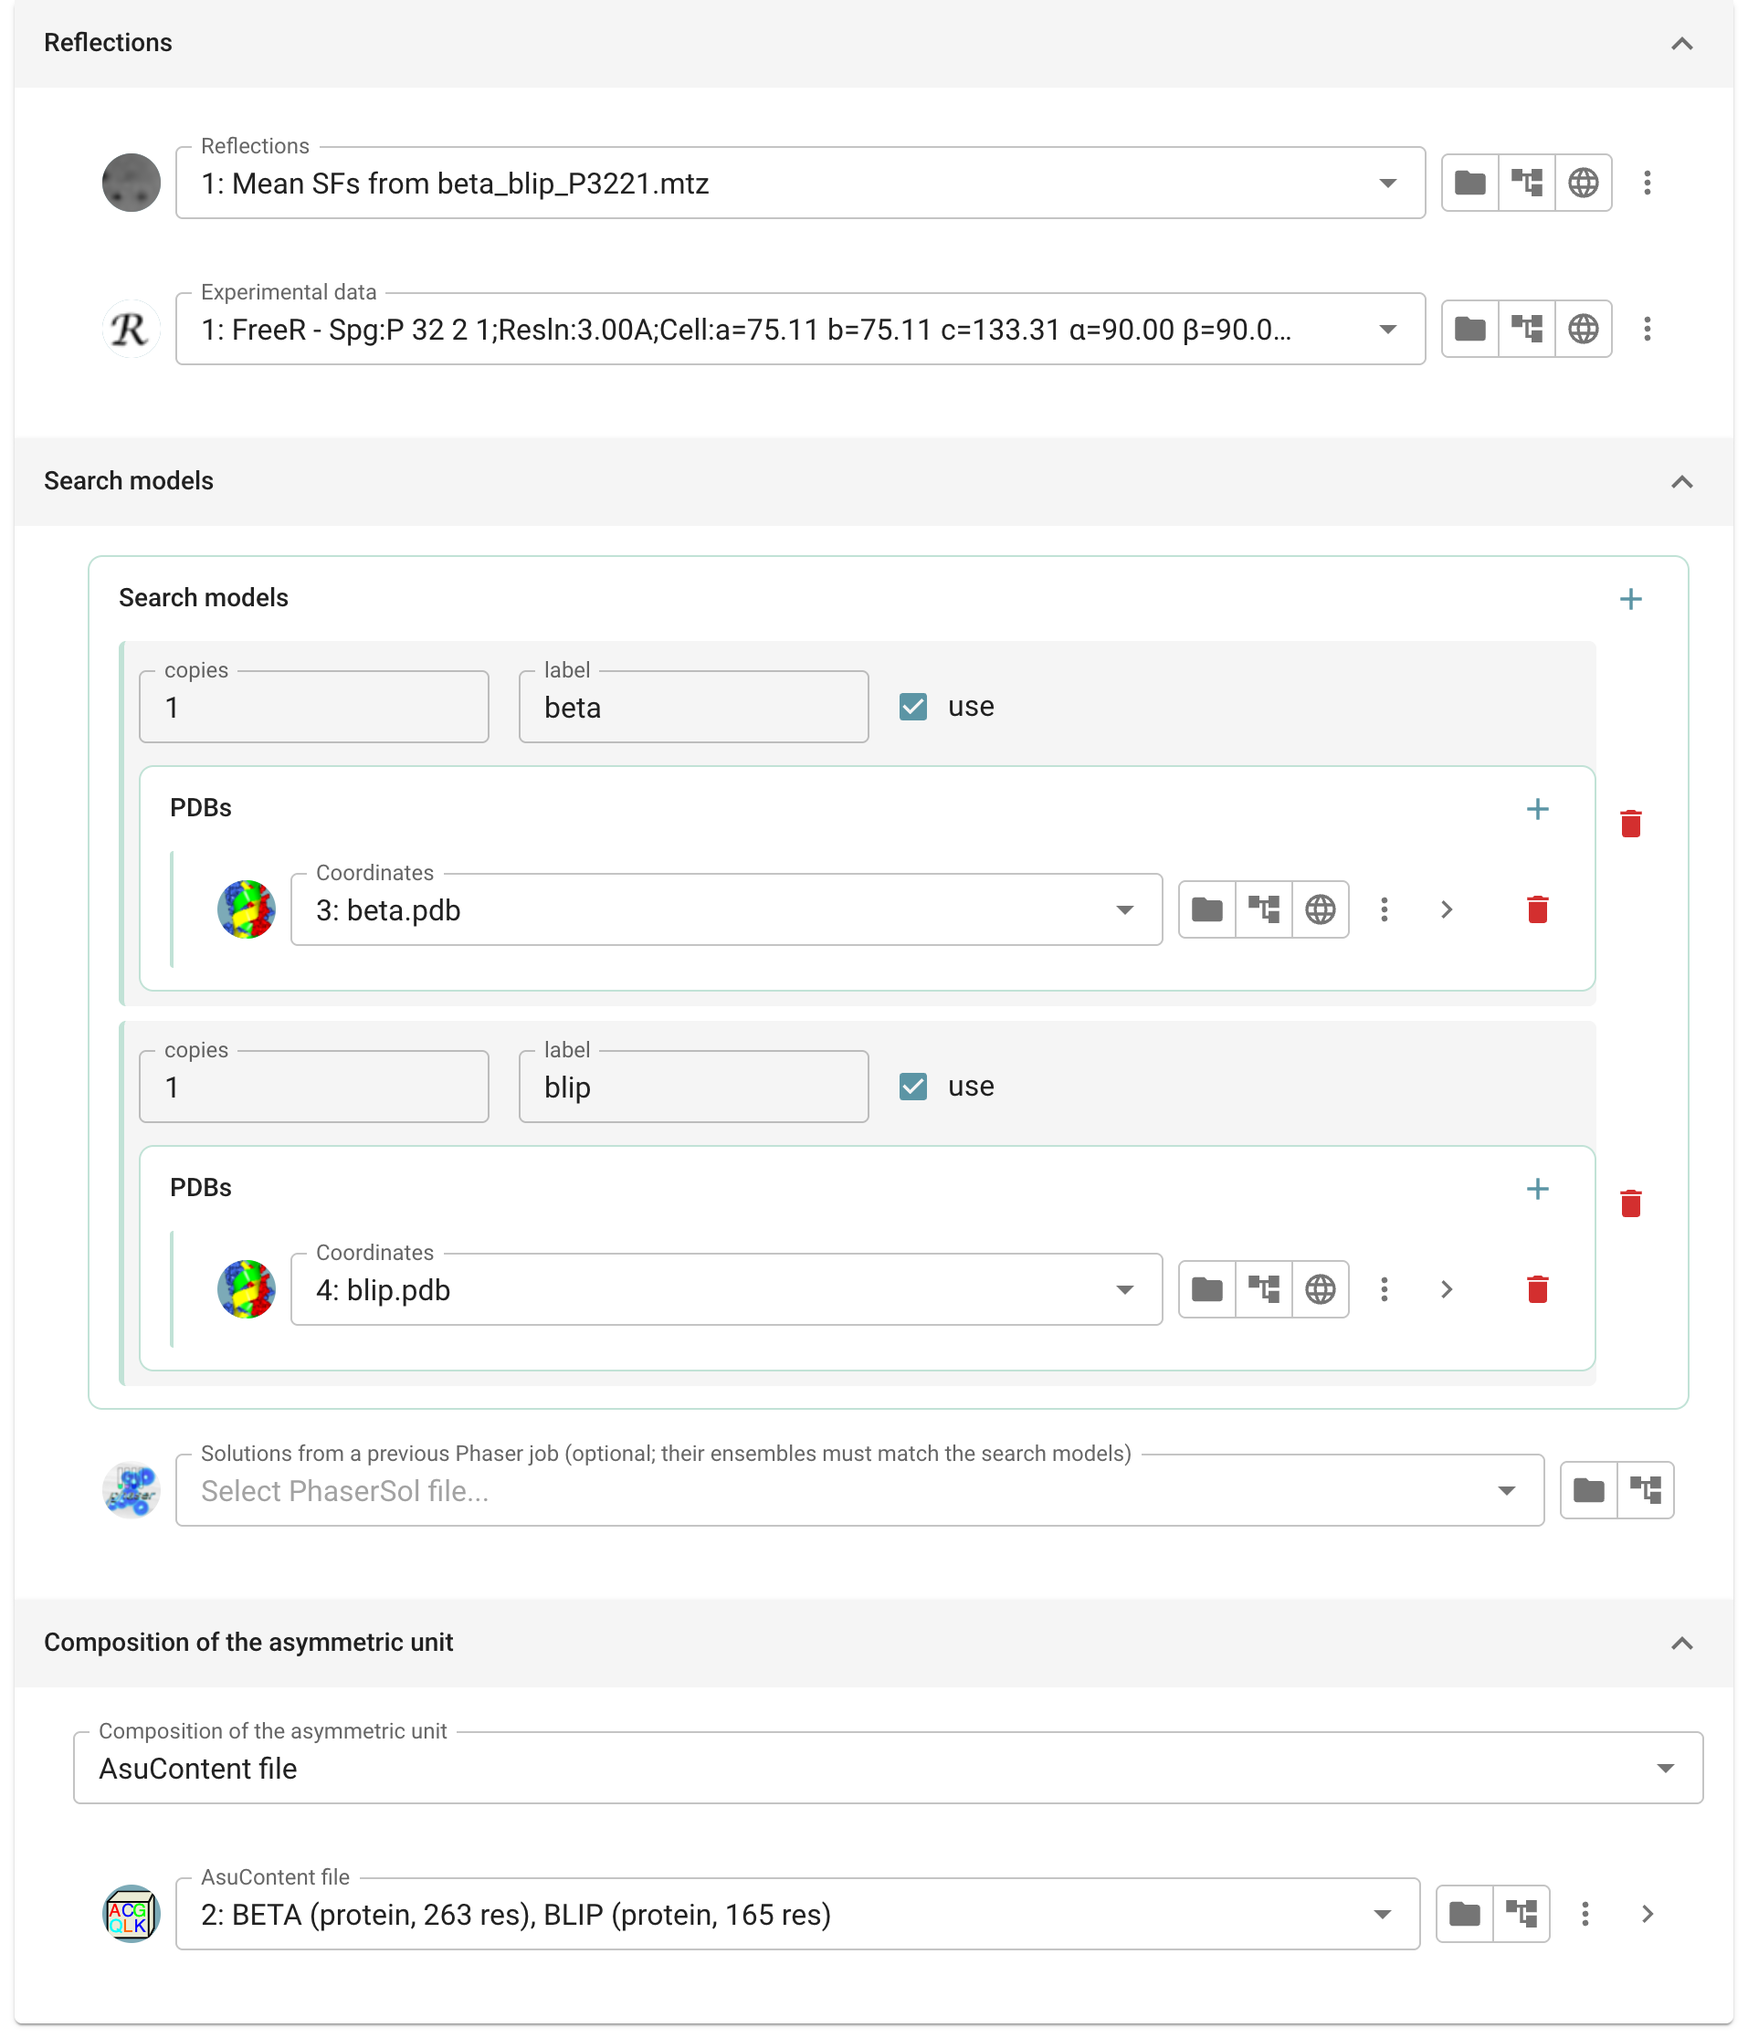
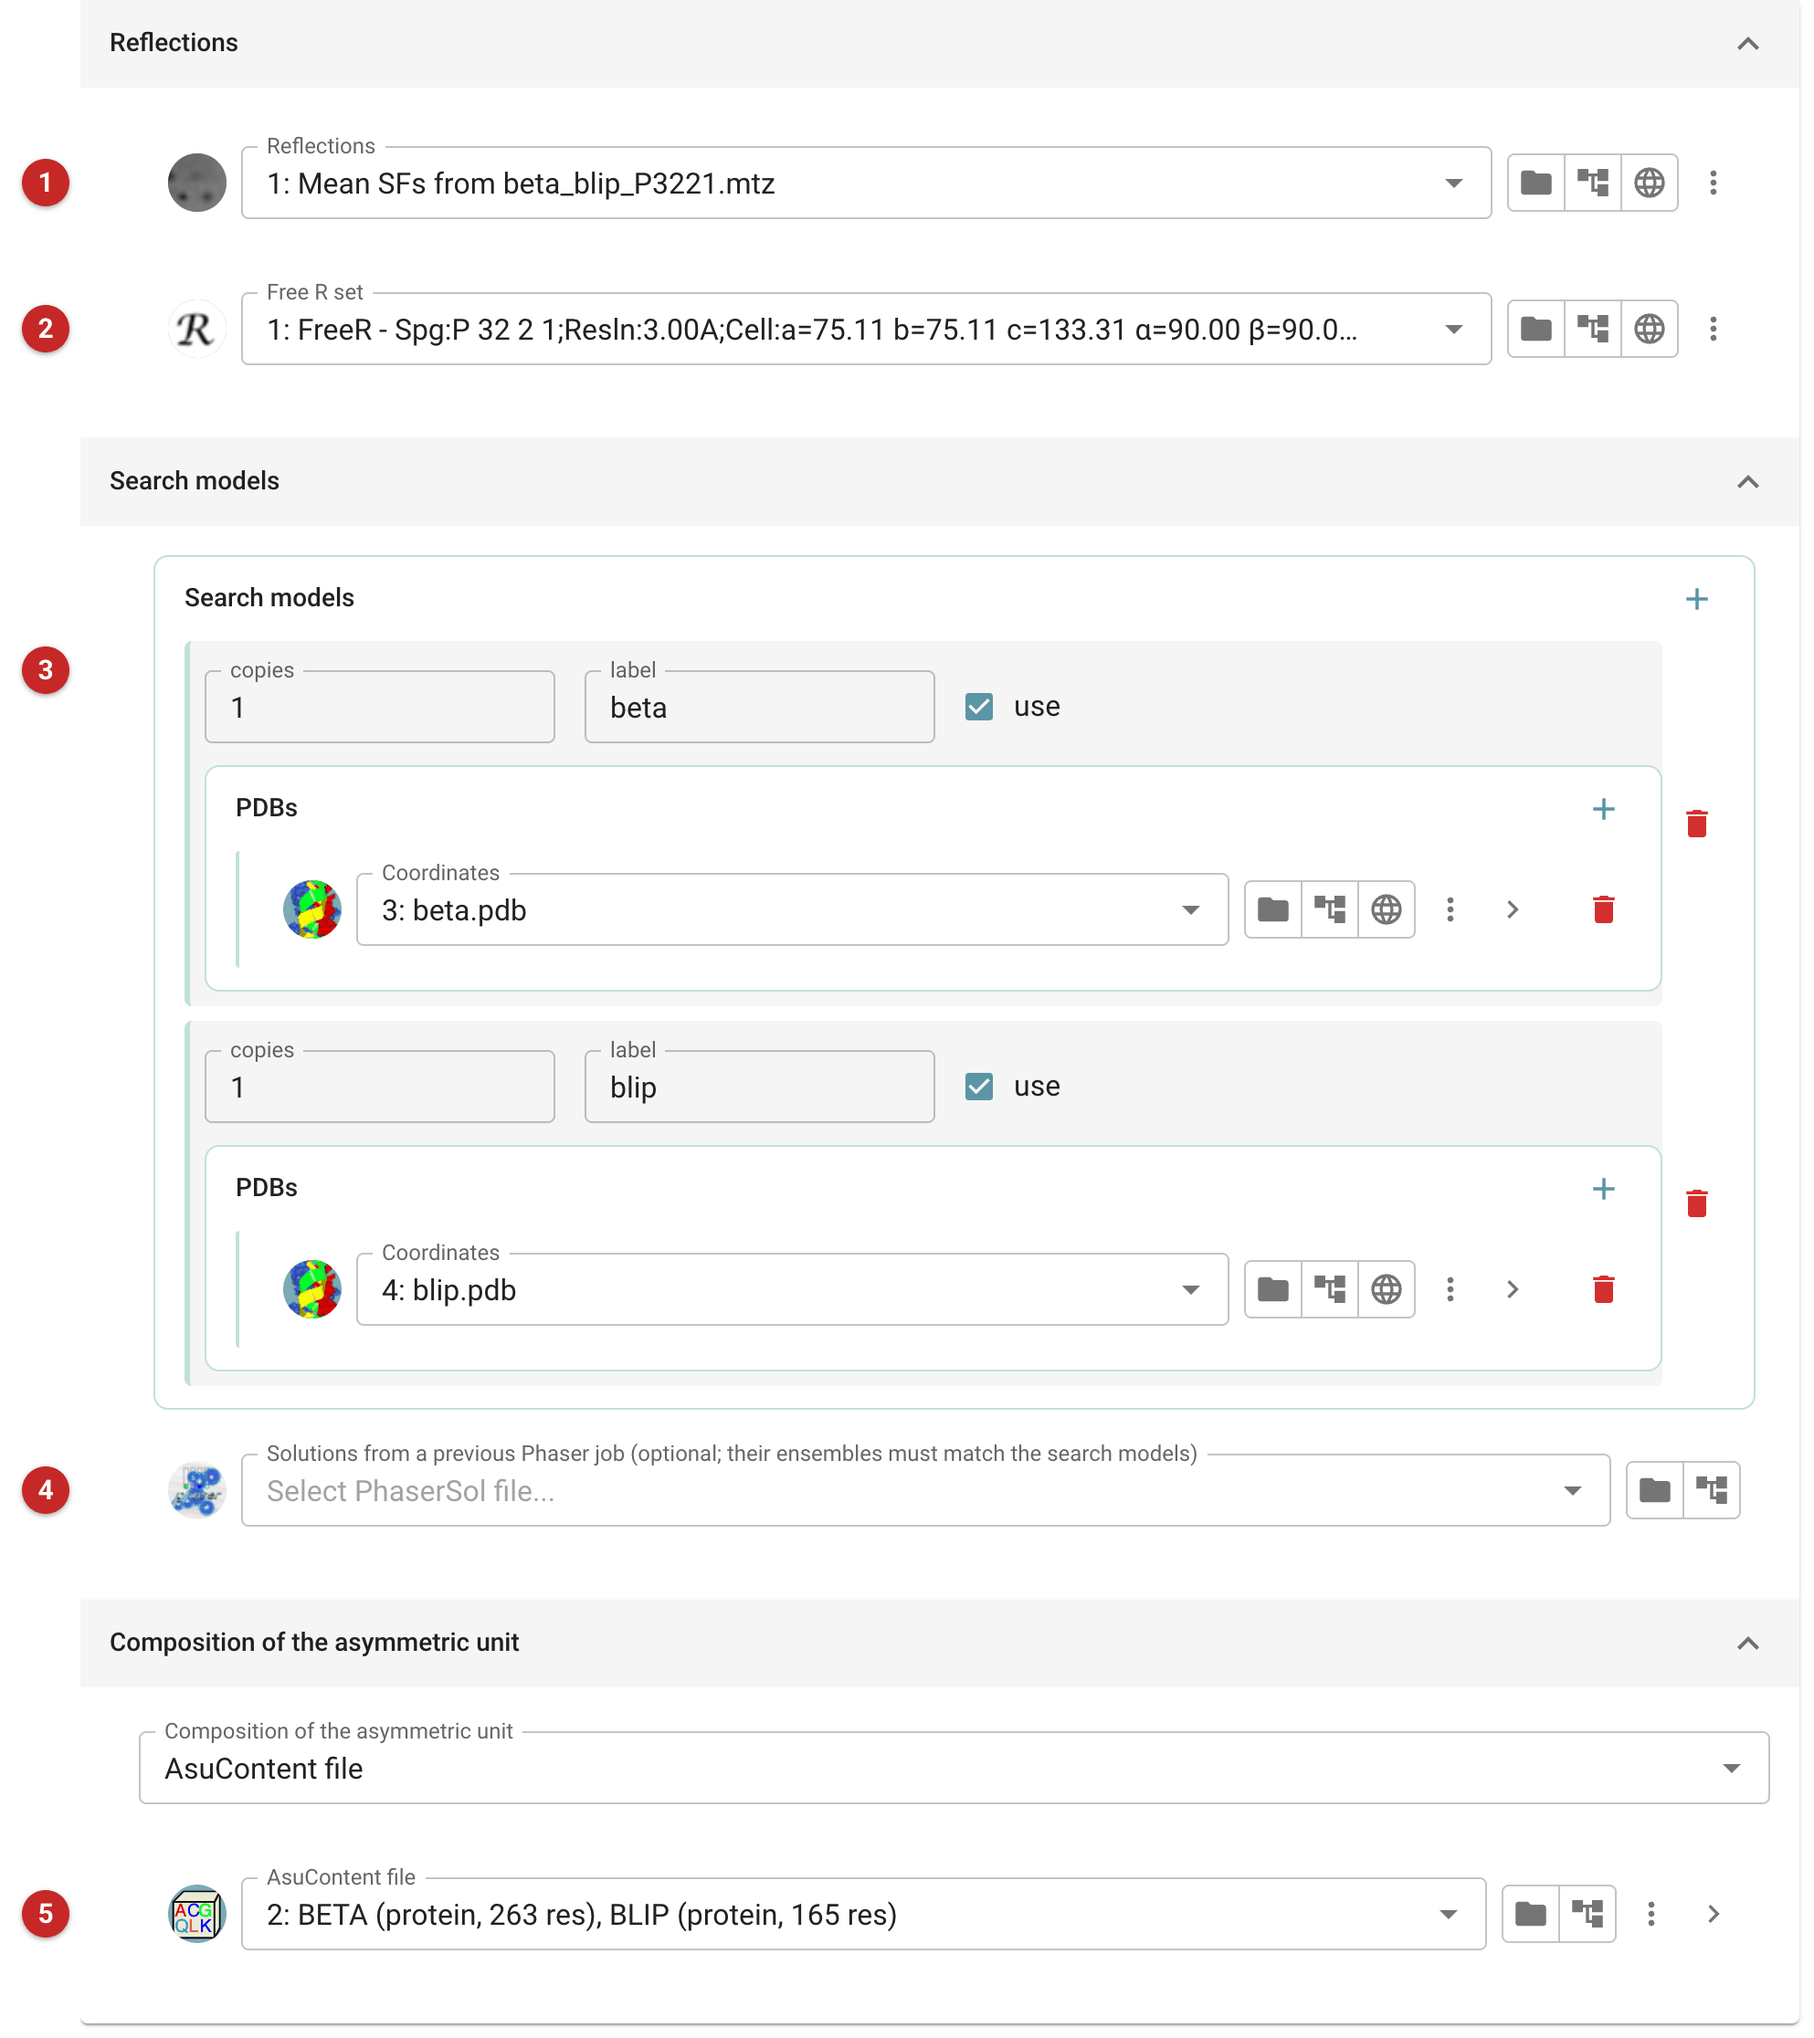
docs/user: the MR route's figures; capture prefers field labels
Figures for Import merged, Define AU contents, basic and expert Phaser,
ModelCraft and Validation, from the beta-lactamase/BLIP scenario; the
pages' numbering follows them. capture.mjs picks a field's own label
over a folder heading of the same text ("Reflections" is both). All six
pages are drafts. Warnings baseline 96 -> 92 (four title rules fixed).
Status: 1 current, 8 draft, 64 Qt, 45 none.

diff --git a/docs/user/source/tasks/phaser_pipeline/index.rst b/docs/user/source/tasks/phaser_pipeline/index.rst
@@ -34,11 +34,11 @@ Input
 Search models
 -------------
 
-   Each entry in the list **(3)** is one component of the asymmetric unit:
+   Each entry in the list is one component of the asymmetric unit:
    here beta-lactamase and BLIP. For each, give
 
    - a one-word **label**, used in the report to say what was placed;
-   - how many **copies** of it to search for;
+   - how many **copies** of it to search for **(3)**;
    - its **models**: one structure, or several superimposed structures of
      the same component making an *ensemble*. Superimpose them yourself
      first; Phaser does not. An ensemble lets Phaser weight what the
@@ -46,7 +46,9 @@ Search models
    - for each model, its **similarity** to your molecule, as sequence
      identity or expected RMS deviation. Phaser's likelihood needs it; a
      rough value is better than none (0.9 identity is a common guess for a
-     model of the same protein).
+     model of the same protein). The *Identity* and *Rms* fields are behind
+     the arrow at the end of the model's row; they open by themselves only
+     when neither is set.
 
    Use each model's atom selection to leave out what is unlikely to match,
    such as flexible termini and loops. Components are searched for in the

diff --git a/docs/user/source/tasks/validate_protein/index.rst b/docs/user/source/tasks/validate_protein/index.rst
@@ -58,12 +58,18 @@ Results
 
    The Iris charts come first **(1)**: each ring is a metric and each
    segment a residue, coloured from good to poor; hover over a residue to
-   read its values. Look for residues poor on several rings at once.
+   read its values; the panel beside the chart shows the selected
+   residue's scores as percentiles. Look for residues poor on
+   several rings at once.
 
-   *MolProbity Analyses* summarises the model's geometry: the MolProbity
+   *MolProbity Analyses* **(2)** summarises the model's geometry: the MolProbity
    score, clashscore, RMS bond and angle deviations and the percentages of
    Ramachandran, rotamer and C-beta outliers, with each kind of outlier
-   listed below the summary.
+   listed below the summary. Here, straight from five cycles of ModelCraft
+   at 3.0 Å, 4% of residues are Ramachandran outliers and the clashscore
+   is 44: a model that needs rebuilding and refinement, and the charts
+   show where.
+
    *B-factor Analyses* gives the mean and spread of the B-factors for the
    whole model and for each chain, by main chain, side chains, waters,
    ligands and ions. *Ramachandran Analyses* plots each residue's backbone

diff --git a/docs/user/source/tasks/phaser_simple_phil/index.rst b/docs/user/source/tasks/phaser_simple_phil/index.rst
@@ -70,7 +70,9 @@ Results
    8 or more is usually a solution; the LLG measures how much better the
    placed model explains the data than none.
 
-   Here beta-lactamase is placed with a TFZ of 10.4, and the LLG is 474.
+   Here beta-lactamase is placed with a TFZ of 10.4 in the search (24.4
+   after refinement of the placement, the value in the solutions table),
+   and the LLG is 474.
    The solution is clear, but it is not complete: the AU contents say BLIP
    is there too. Searching for both with the expert task places BLIP as
    well (TFZ 18.6), and the LLG rises to 1054. When the LLG is well below

diff --git a/docs/user/source/tasks/ProvideAsuContents/index.rst b/docs/user/source/tasks/ProvideAsuContents/index.rst
@@ -43,9 +43,9 @@ Input
    The molecular weight of the whole contents is shown **(3)**. Give the
    reflection data **(4)** and the task works out, from the cell, how many
    copies of these contents the asymmetric unit could hold, with the
-   solvent content and probability of each **(5)**; the most probable is
-   highlighted. Here one copy of the complex leaves 47% solvent, by far
-   the likeliest.
+   solvent content and probability of each, in the panel beside it; the
+   most probable is highlighted. Here one copy of the complex leaves 47%
+   solvent, by far the likeliest.
 
 Results
 =======
